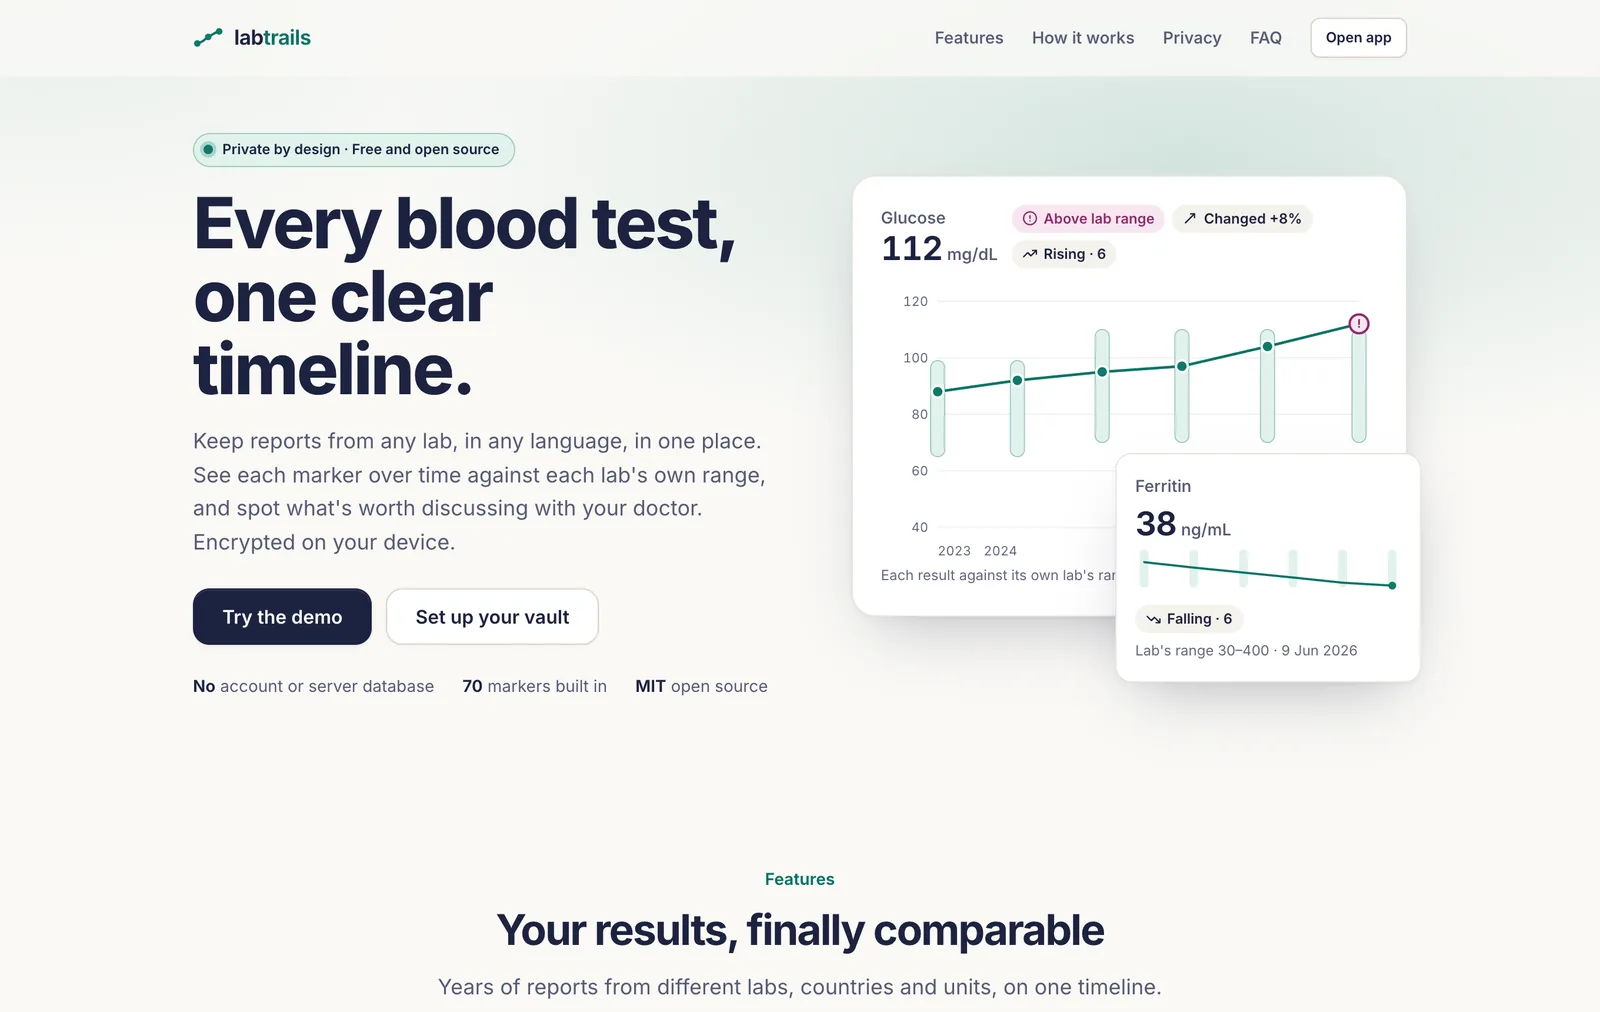
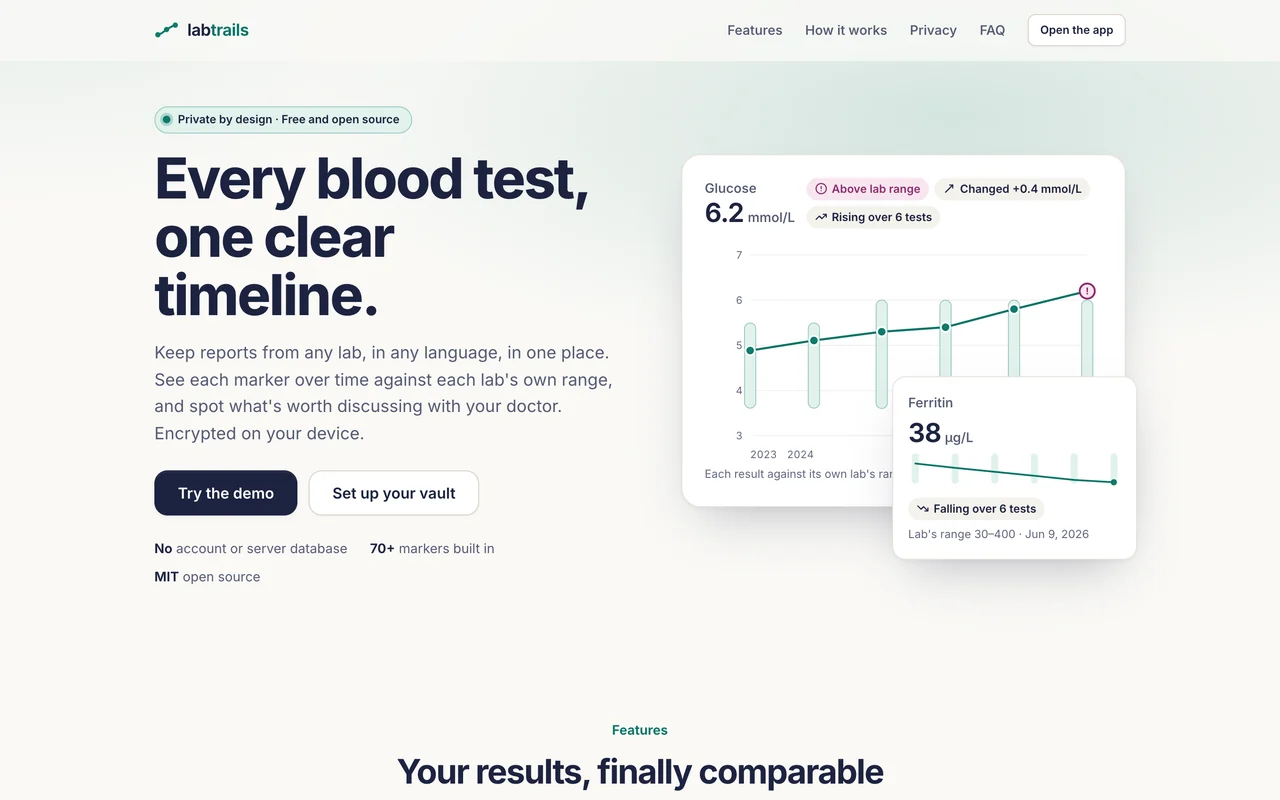
Trails entry: new screenshots, final counts and facts (SITE-01, SITE-03, SITE-05)
- SITE-03: public/trails/ rebuilt from the apps' retaken docs/screenshots on review-fixes
  (BabyTrails 3e9f69f, LabTrails d9fb424), one size per kind: phones 600×1000, desktop 1280×800.
  Each is cropped so nothing sits under a header or tab bar; short ones are padded with the app's
  own background. New: LabTrails' marker with timeline bands, BabyTrails' weight chart and report
  card. Gone: the old marker, child page and booklet review.
- SITE-01: 421 unit and 27 browser tests in LabTrails, 198 and 37 in BabyTrails (from the runners);
  five code-decided flags, now that the lab's critical marks and far-outside results are a flag
  (LAB-01); 42 influences, cited and no stronger than their sources (LAB-09, LAB-10); BabyTrails'
  summary facts carry no dates (BABY-06).

diff --git a/src/content/projects.ts b/src/content/projects.ts
@@ -237,7 +237,7 @@ export const projects: Project[] = [
         heading: 'the code computes, the AI explains, you confirm',
         body: [
           'Numbers are never the AI’s job. LabTrails flags results with simple, tested rules against each lab’s printed range. BabyTrails works out percentiles with WHO’s LMS method, including WHO’s adjustment beyond ±3 SD, tested against WHO’s published values.',
-          'When the AI reads a report, it only copies what is printed into a strict schema; the code matches names and units, and the person checks every row next to the original page before anything is saved. Summaries are written from facts the code computed, with the person’s name and date of birth removed. Ask, for questions about the numbers, shows an answer only after the code has checked each of its numbers against the app’s own figures.',
+          'When the AI reads a report, it only copies what is printed into a strict schema; the code matches names and units, and the person checks every row next to the original page before anything is saved. Summaries are written from facts the code computed, without the person’s name or date of birth; BabyTrails’ facts carry no dates at all, only ages in days. Ask, for questions about the numbers, shows an answer only after the code has checked each of its numbers against the app’s own figures.',
         ],
       },
       {
@@ -263,19 +263,19 @@ export const projects: Project[] = [
     ],
     screensNote: 'demo data: every name and value is made up',
     screens: [
-      { src: '/trails/labtrails-marker-dark.webp', width: 600, height: 1221, caption: 'LabTrails · one marker over time', alt: 'A phone in dark mode showing a demo ferritin chart over three years, each point against its own lab’s range.' },
-      { src: '/trails/babytrails-child-dark.webp', width: 600, height: 1022, caption: 'BabyTrails · a child’s page', alt: 'A phone in dark mode showing a demo baby’s page with the latest weight at the 59th percentile and a button to add a measurement.' },
-      { src: '/trails/babytrails-review.webp', width: 600, height: 1022, caption: 'BabyTrails · checking values read from a booklet', alt: 'A phone showing values the AI read from a made-up health booklet page, each waiting to be ticked before it is saved.' },
-      { src: '/trails/labtrails-landing.webp', width: 1600, height: 1012, desktop: true, caption: 'LabTrails · landing page', alt: 'The LabTrails landing page: every blood test, one clear timeline, with a sample glucose chart and a ferritin card.' },
-      { src: '/trails/babytrails-landing.webp', width: 1280, height: 860, desktop: true, caption: 'BabyTrails · landing page', alt: 'The BabyTrails landing page: every check-up on the growth charts, with a sample weight chart at the 59th percentile.' },
-      { src: '/trails/labtrails-dashboard.webp', width: 1600, height: 1012, desktop: true, caption: 'LabTrails · dashboard of the markers worth discussing', alt: 'The LabTrails dashboard for a demo person, with trend cards for glucose, HbA1c, cholesterol, ferritin and other markers, each with its flags.' },
-      { src: '/trails/babytrails-overview.webp', width: 1280, height: 860, desktop: true, caption: 'BabyTrails · a child’s overview', alt: 'The BabyTrails overview for a demo baby: weight, length and head circumference with percentiles, weight gain per week and days between weighings.' },
-      { src: '/trails/labtrails-review.webp', width: 1280, height: 860, desktop: true, caption: 'LabTrails · checking rows the AI read, next to the report', alt: 'Reviewing a made-up lab report: the report on the left, and each value the AI copied on the right, waiting to be confirmed.' },
-      { src: '/trails/labtrails-import.webp', width: 1280, height: 860, desktop: true, caption: 'LabTrails · batch import with a duplicate caught', alt: 'The LabTrails import queue, with a second copy of the same sample report set aside as already imported.' },
+      { src: '/trails/labtrails-marker-timeline-dark.webp', width: 600, height: 1000, caption: 'LabTrails · one marker with the timeline', alt: 'A phone in dark mode showing a demo vitamin D chart over three years, each point against its own lab’s range, with bands for a vitamin D3 supplement and marathon training.' },
+      { src: '/trails/babytrails-chart-dark.webp', width: 600, height: 1000, caption: 'BabyTrails · the WHO weight chart', alt: 'A phone in dark mode showing a demo baby’s weight on the WHO weight-for-age chart, at the 59th percentile, between the shaded percentile bands.' },
+      { src: '/trails/babytrails-report-card.webp', width: 600, height: 1000, caption: 'BabyTrails · a report card to share', alt: 'The report card of a made-up baby: weight, length and head size with percentiles, four growth charts, gain over time, highlights and history.' },
+      { src: '/trails/labtrails-landing.webp', width: 1280, height: 800, desktop: true, caption: 'LabTrails · landing page', alt: 'The LabTrails landing page: every blood test, one clear timeline, with a sample glucose chart and a ferritin card.' },
+      { src: '/trails/babytrails-landing.webp', width: 1280, height: 800, desktop: true, caption: 'BabyTrails · landing page', alt: 'The BabyTrails landing page: every check-up on the growth charts, with a sample weight chart at the 59th percentile.' },
+      { src: '/trails/labtrails-dashboard.webp', width: 1280, height: 800, desktop: true, caption: 'LabTrails · the markers worth discussing', alt: 'The LabTrails overview for a demo person: markers outside the lab’s range, and markers that changed or are trending inside it, each with its flags.' },
+      { src: '/trails/babytrails-overview.webp', width: 1280, height: 800, desktop: true, caption: 'BabyTrails · a child’s overview with gain over time', alt: 'The BabyTrails overview for a demo baby: weight, length and head circumference with percentiles, and weight gain per week against the same-percentile line.' },
+      { src: '/trails/labtrails-review.webp', width: 1280, height: 800, desktop: true, caption: 'LabTrails · checking rows the AI read, next to the report', alt: 'Checking a made-up lab report: the report on the left, and each value the AI copied on the right, with the date as printed and as read, waiting to be confirmed.' },
+      { src: '/trails/labtrails-import.webp', width: 1280, height: 800, desktop: true, caption: 'LabTrails · batch import with a duplicate caught', alt: 'The LabTrails import queue, with a second copy of the same sample report marked as already imported.' },
     ],
     built: [
       'A shared core in TypeScript: a passphrase vault (Argon2id, AES-256-GCM, with records bound to their collection and ID so tampered or moved data fails to decrypt), encrypted IndexedDB storage, verified backups, documents with an in-app PDF viewer, a propose-review-confirm screen, and a browser-side Claude client with a consent sheet.',
-      'LabTrails: a catalog of more than 70 markers with English and Portuguese names and cited unit conversions, each result against its own lab’s range, four code-decided flags, a personal timeline with dose timing per test, 40 known influences each quoted from a public source, personal lines on charts, AI report reading with every row checked, batch import with three-level duplicate detection, a one-page doctor report, and a “Before your next test” request in English or Portuguese.',
+      'LabTrails: a catalog of more than 70 markers with English and Portuguese names and cited unit conversions, each result against its own lab’s range, five code-decided flags (one for results the lab marked critical or far outside its range), a personal timeline with dose timing per test, 42 known influences, each cited to a public source and worded no more strongly than it, personal lines on charts, AI report reading with every row checked, batch import with three-level duplicate detection, a one-page doctor report, and a “Before your next test” request in English or Portuguese.',
       'BabyTrails: WHO growth charts from birth to 5 years (weight, length or height, head circumference, weight for length and BMI) with z-scores and percentiles, quick entry on a phone with the percentile shown as you type, documents including ultrasound images (stored, never interpreted), AI reading of growth reports and booklet pages that takes a re-photographed page’s new rows only, gain over time against the same-percentile line and WHO’s weight velocity standards, newborn weight change with NICE’s thresholds, second looks at doubtful values, summaries, “Ask about the numbers” (answers whose every number is checked against the app’s own figures before they’re shown), and a report card to share as an image or PDF.',
       'A shared design system (tokens, components and landing-page sections), installable offline apps with an update banner, and a demo in each app with made-up data that needs no key or passphrase.',
     ],
@@ -283,7 +283,7 @@ export const projects: Project[] = [
     outcomes: [
       'Both apps went from first commit to live on October 6, 2026, from a written spec I approved for each.',
       '19 merged pull requests in BabyTrails and 23 in LabTrails in the first two days.',
-      'Tests: 368 unit and 20 browser tests in LabTrails, plus a live extraction check on fictional reports, and 163 unit and 24 browser tests in BabyTrails. Every browser test fails if the app contacts any site but its own.',
+      'Tests: 421 unit and 27 browser tests in LabTrails, plus a live extraction check on fictional reports, and 198 unit and 37 browser tests in BabyTrails. Every browser test fails if the app contacts any site but its own.',
     ],
     reflection:
       'What I’d do differently: agree shared resources in the coordination file on day one. Both apps’ browser tests first used the same port, so one app’s tests ran against the other’s server. Next: use both apps day to day with our own records, add corrected age for babies born early, and, if people want it, encrypted sync between devices.',
